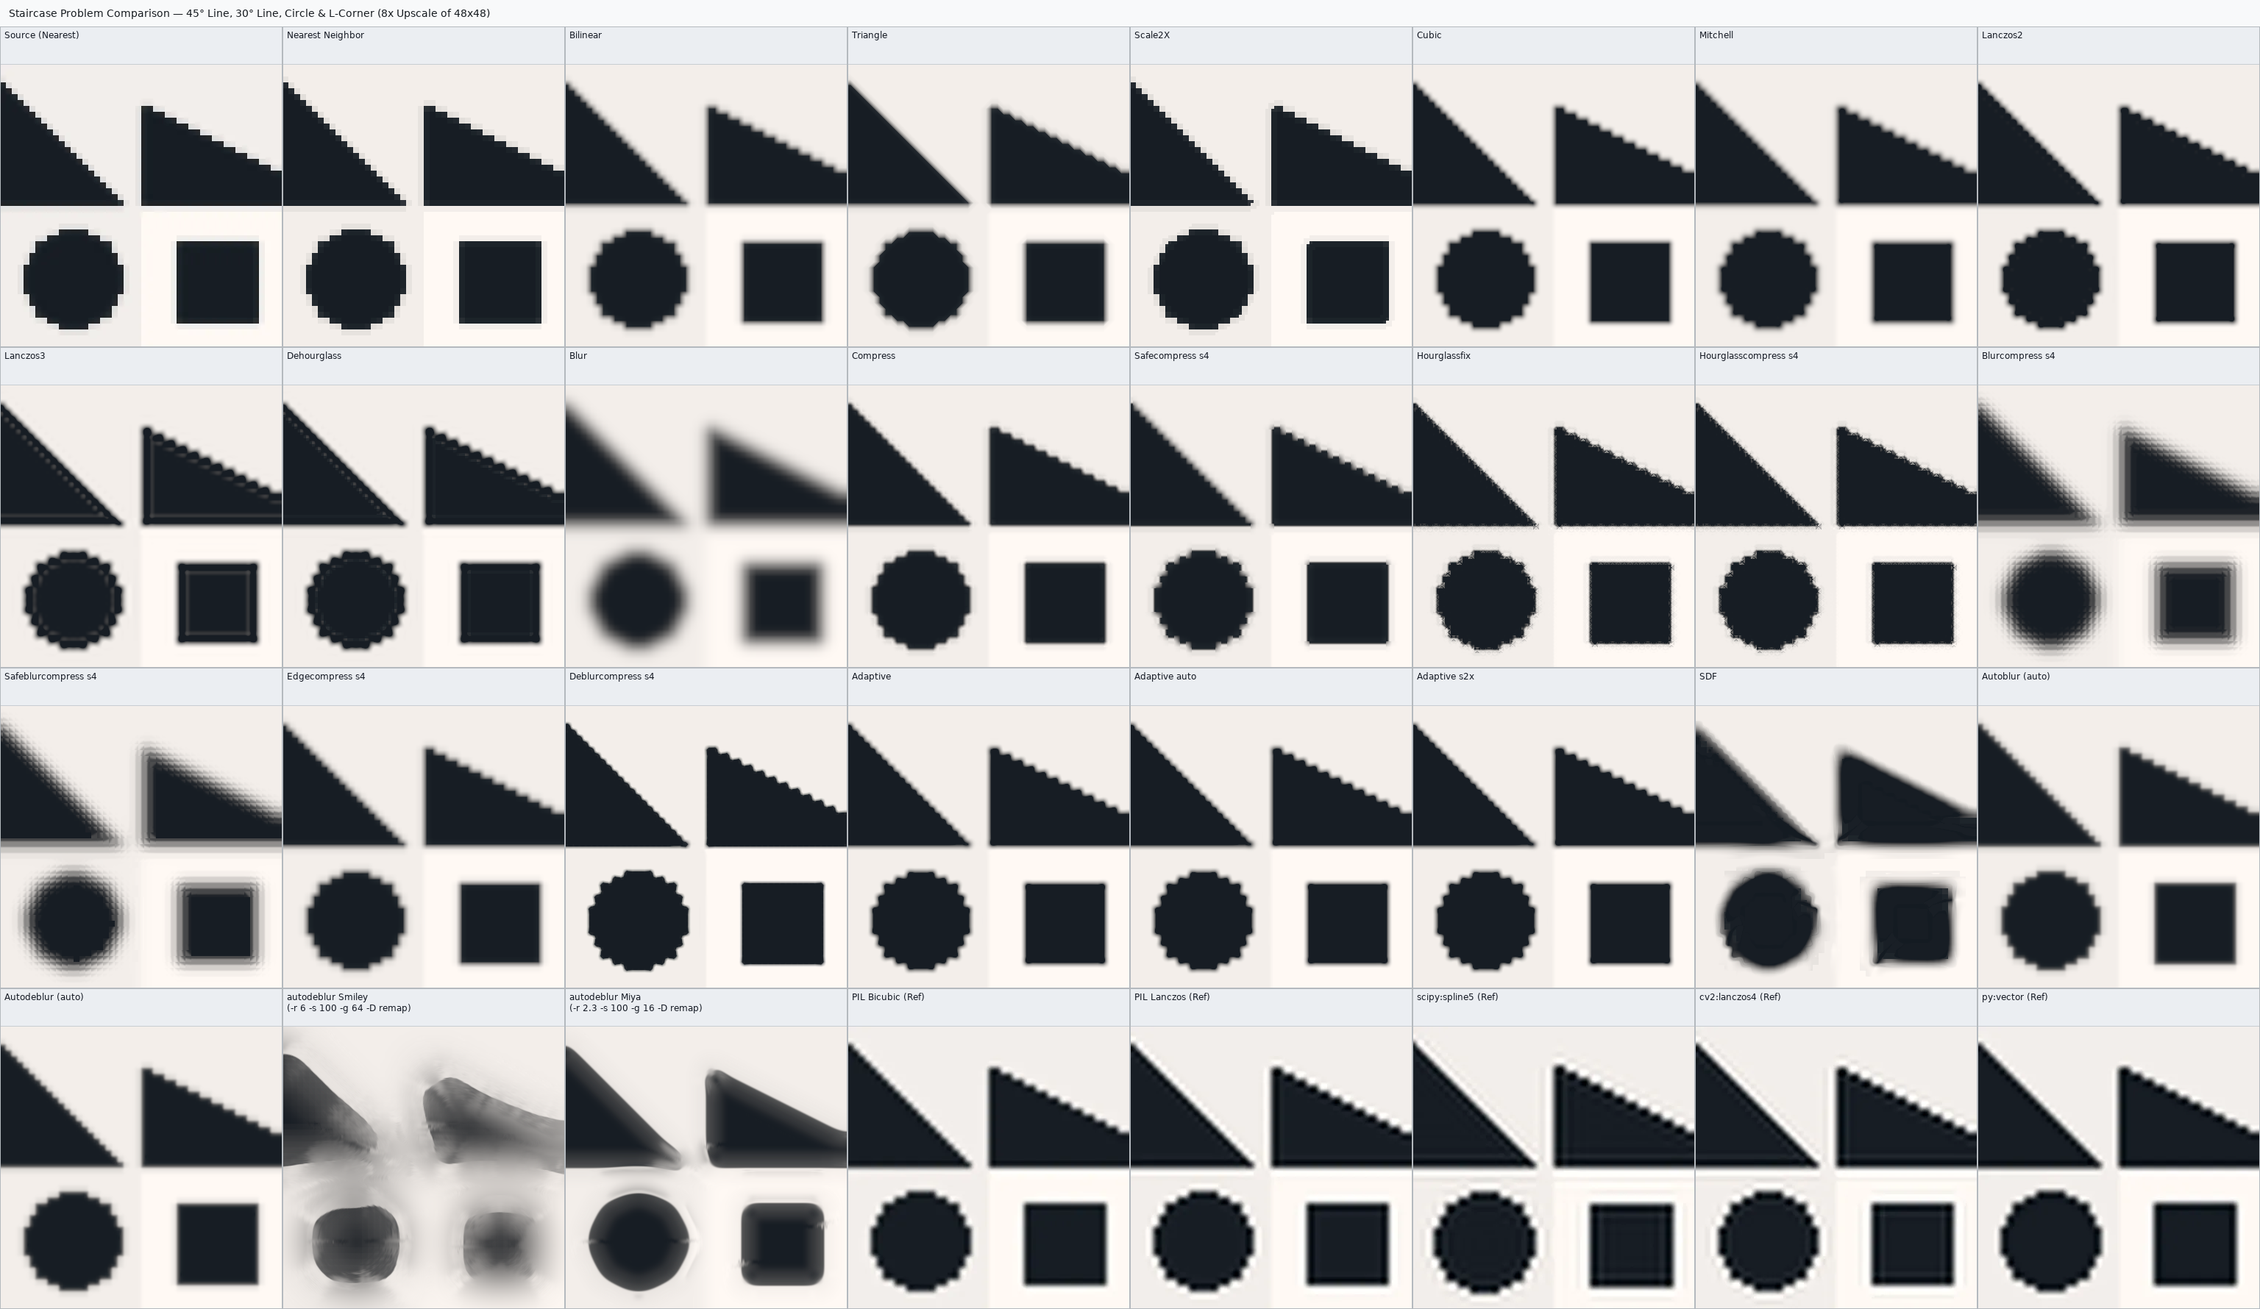
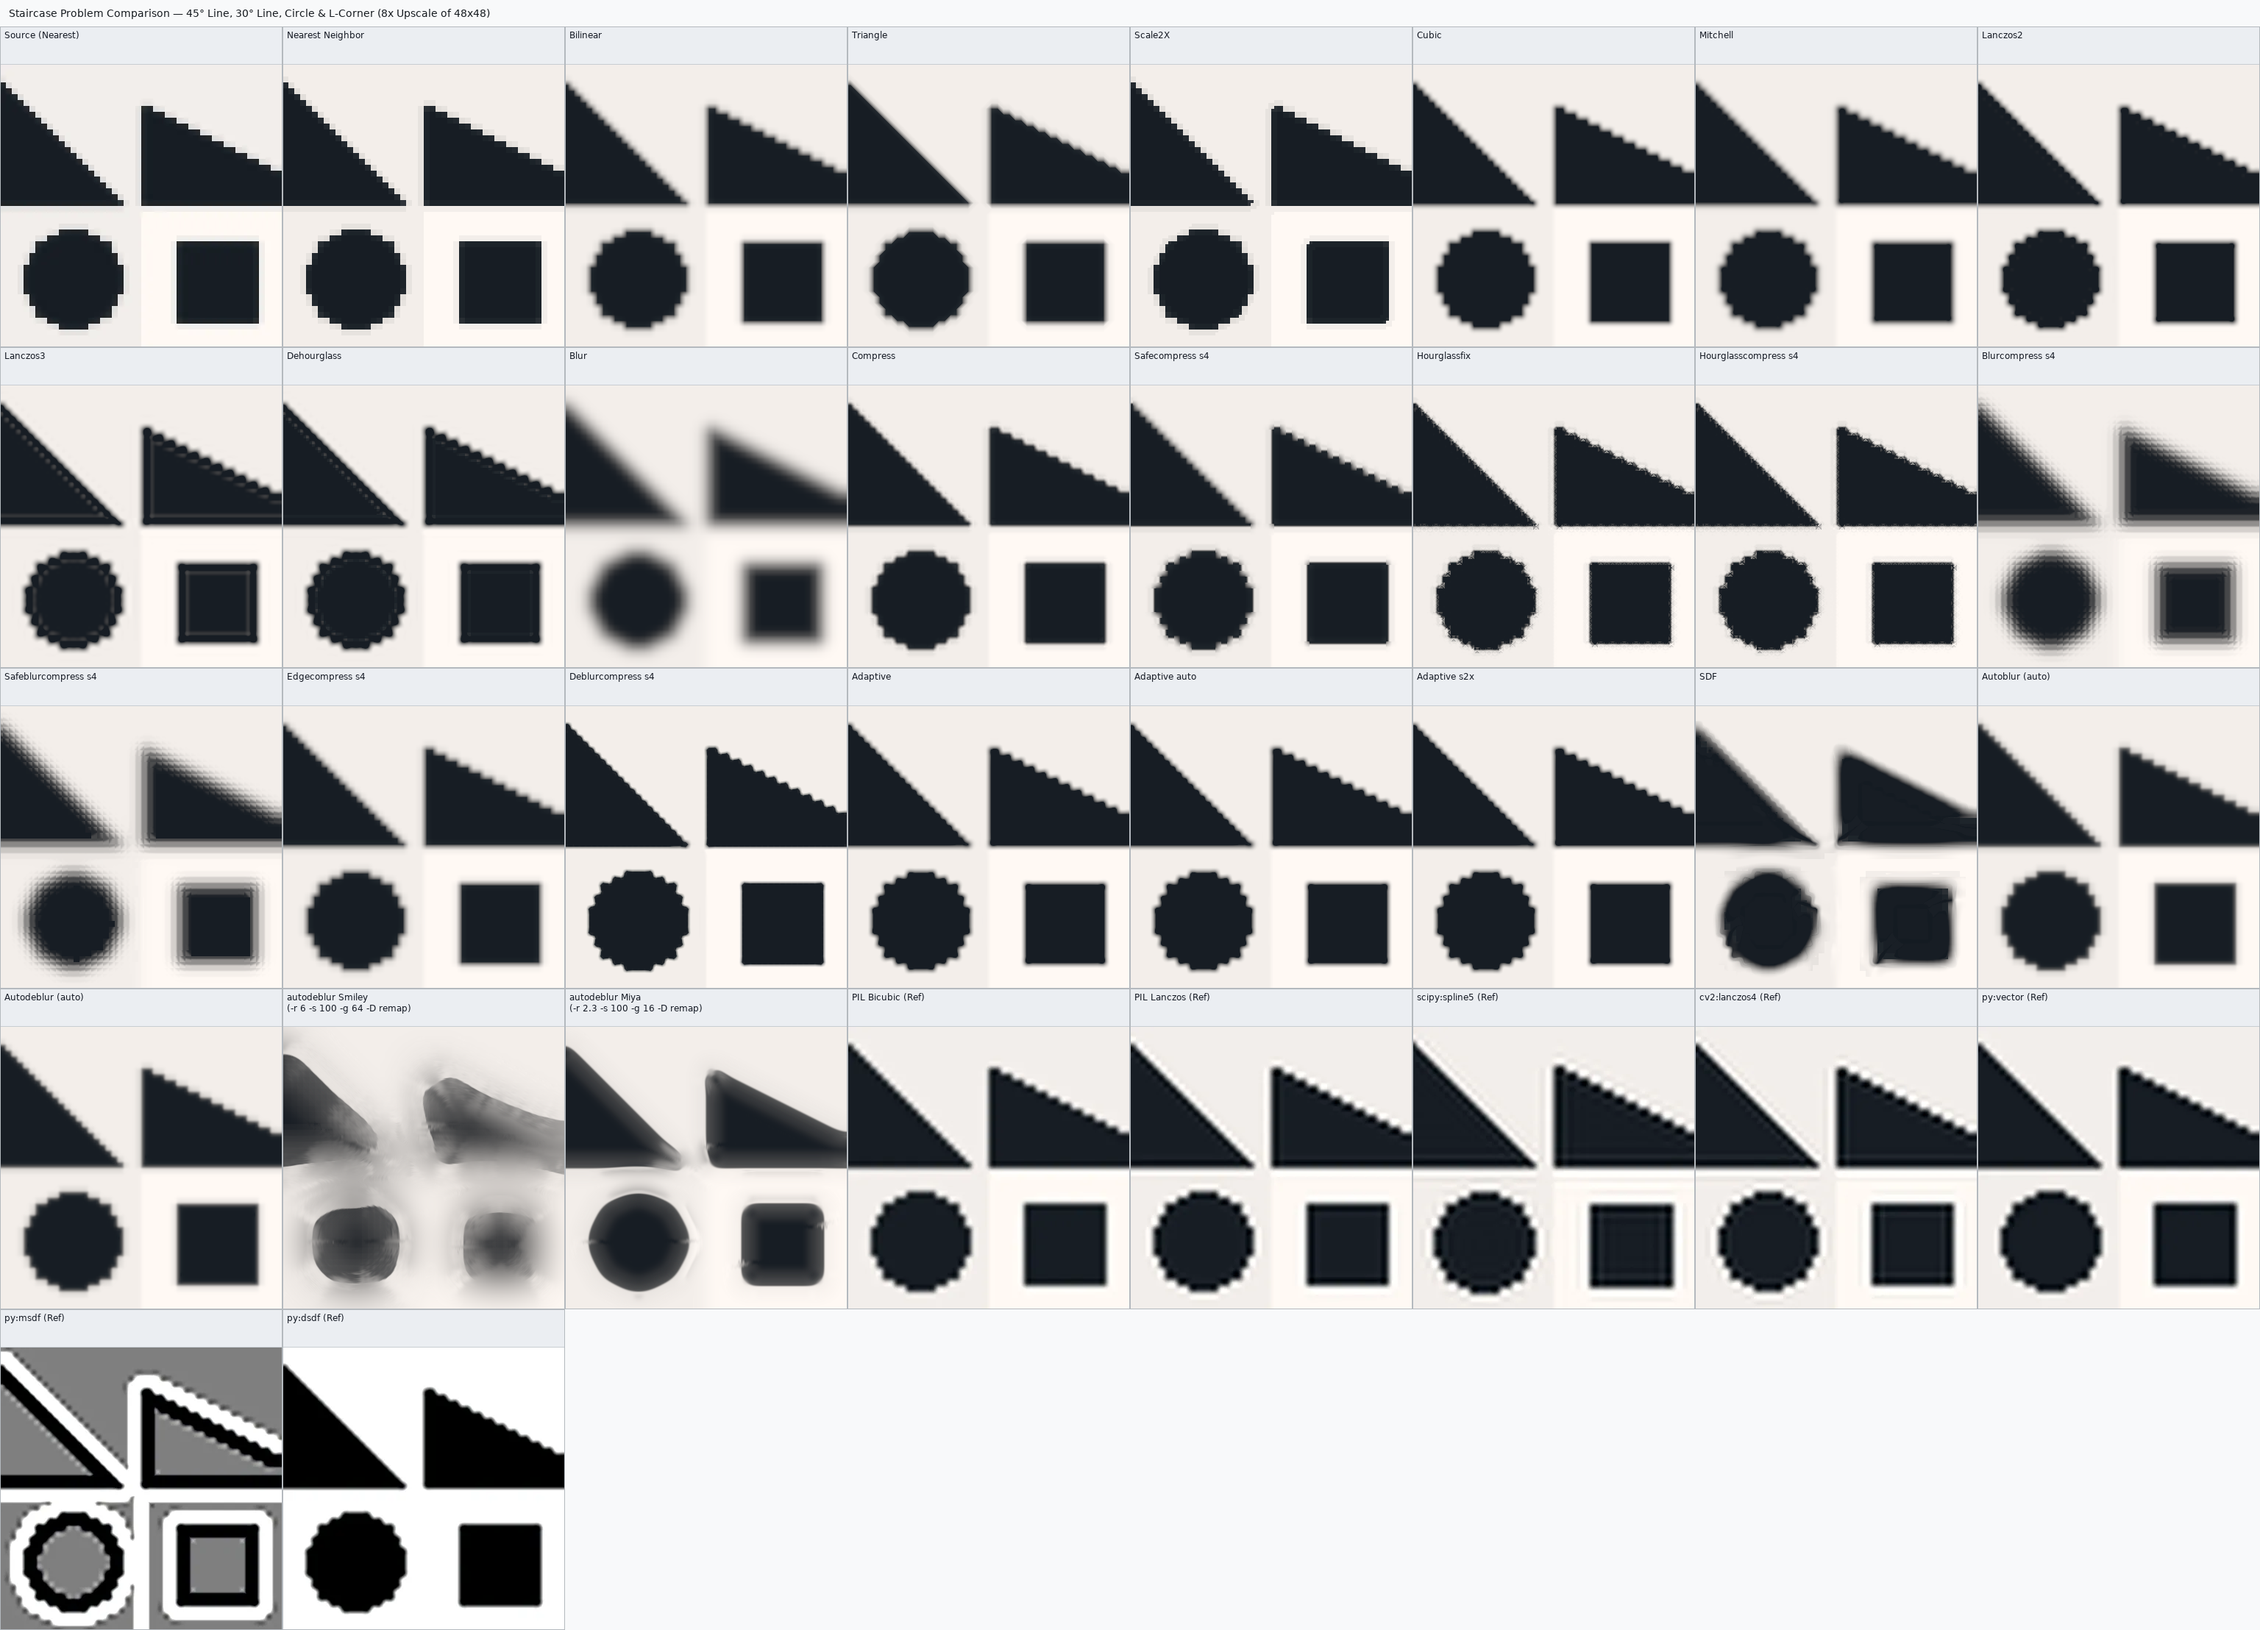
v4.9.3: add py:msdf and py:dsdf benchmarks; regenerate 34-mode comparison sheets in lossless webp

diff --git a/make_smiley_staircase_sheets.py b/make_smiley_staircase_sheets.py
@@ -63,6 +63,8 @@ MODES = [
     ("scipy:spline5 (Ref)", "scipy", "spline5", ()),
     ("cv2:lanczos4 (Ref)", "cv2", "lanczos4", ()),
     ("py:vector (Ref)", "py", "vector", ()),
+    ("py:msdf (Ref)", "py", "msdf", ()),
+    ("py:dsdf (Ref)", "py", "dsdf", ()),
 ]
 
 def load_font(size):
@@ -143,6 +145,31 @@ def run_upscale(src_path, dst_path, scale, tool, mode, extra):
             pushed = cv2.remap(smoothed, xx_push, yy_push, cv2.INTER_LINEAR)
             wt_mag = np.clip((mag - 5.0) / 30.0, 0.0, 0.85)[:, :, None]
             base = smoothed * (1.0 - wt_mag) + pushed * wt_mag
+        elif mode == "msdf":
+            arr = np.asarray(im)
+            out_arr = np.empty((dh, dw, arr.shape[2]), dtype=np.uint8)
+            for ch in range(arr.shape[2]):
+                plane = arr[:, :, ch].astype(np.float32) / 255.0
+                gx = cv2.Sobel(plane, cv2.CV_32F, 1, 0, ksize=3); gy = cv2.Sobel(plane, cv2.CV_32F, 0, 1, ksize=3)
+                mag = np.sqrt(gx**2 + gy**2) + 1e-6
+                m0 = np.clip(np.abs(gy) / mag, 0, 1); m1 = np.clip(np.abs(gx) / mag, 0, 1); m2 = 1.0 - np.maximum(m0, m1) * 0.5
+                up0 = cv2.resize(plane * m0 + (1-m0)*0.5, (dw, dh), interpolation=cv2.INTER_CUBIC)
+                up1 = cv2.resize(plane * m1 + (1-m1)*0.5, (dw, dh), interpolation=cv2.INTER_CUBIC)
+                up2 = cv2.resize(plane * m2 + (1-m2)*0.5, (dw, dh), interpolation=cv2.INTER_CUBIC)
+                med = np.maximum(np.minimum(up0, up1), np.minimum(np.maximum(up0, up1), up2))
+                out_arr[:, :, ch] = np.clip((med - 0.5) * 4.0 + 0.5, 0, 1) * 255.0
+            base = out_arr
+        elif mode == "dsdf":
+            arr = np.asarray(im)
+            out_arr = np.empty((dh, dw, arr.shape[2]), dtype=np.uint8)
+            for ch in range(arr.shape[2]):
+                plane = arr[:, :, ch].astype(np.float32) / 255.0
+                up_c = cv2.resize(plane, (dw, dh), interpolation=cv2.INTER_CUBIC)
+                gx = cv2.Sobel(up_c, cv2.CV_32F, 1, 0, ksize=3); gy = cv2.Sobel(up_c, cv2.CV_32F, 0, 1, ksize=3)
+                mag = np.sqrt(gx**2 + gy**2) + 1e-6
+                d_geom = (up_c - 0.5) / (mag * 0.5 + 0.5)
+                out_arr[:, :, ch] = np.clip(0.5 + d_geom * 1.5, 0, 1) * 255.0
+            base = out_arr
         Image.fromarray(np.clip(base, 0, 255).astype(np.uint8), im.mode).save(dst_path)
     else:
         cmd = [str(EXE), str(src_path), str(dst_path), str(scale), "--mode", mode, *extra]
